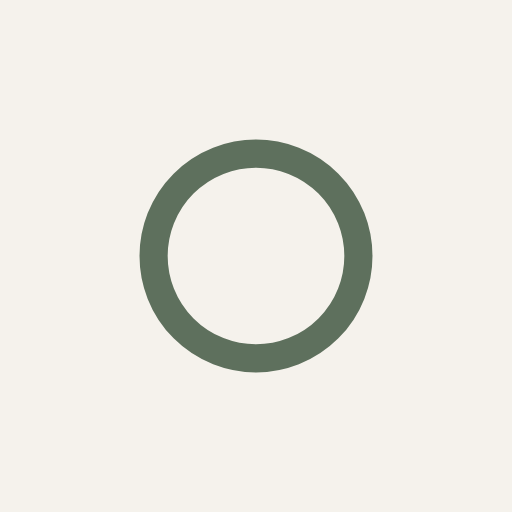
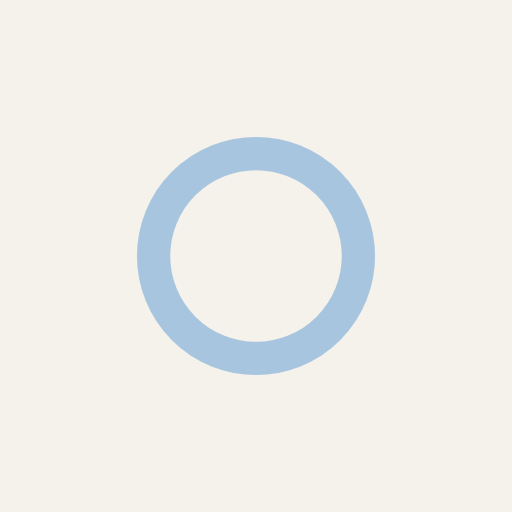
Change the accent to a soft pastel blue
The primary button, selected mood and focus rings use a pastel blue with
dark slate text (about 7.6:1 contrast), in light and dark mode. Icons and
favicon are regenerated as a blue ring.

Claude-Session: https://claude.ai/code/session_017iq3FQPpE2YjY6YyC7k5ra

Changed region(s): [[0.25, 0.25, 0.75, 0.75]]

diff --git a/src/styles.css b/src/styles.css
@@ -5,10 +5,10 @@
   --faint: #a59e94;
   --line: #e3ded5;
   --field: #faf8f4;
-  --accent: #5e705d;
-  --accent-text: #f7f5f0;
-  --accent-soft: #e4e8e1;
-  --focus: #8a9c87;
+  --accent: #a8c5e0;
+  --accent-text: #23303c;
+  --accent-soft: #d9e5f0;
+  --focus: #7fa6cb;
 
   --font: system-ui, -apple-system, 'Segoe UI', Roboto, 'Helvetica Neue', Arial, sans-serif;
   --size: 17px;
@@ -27,10 +27,10 @@
     --faint: #7c766d;
     --line: #3d3a36;
     --field: #312f2b;
-    --accent: #9aac96;
-    --accent-text: #22211e;
-    --accent-soft: #3a4038;
-    --focus: #9aac96;
+    --accent: #a9c3dc;
+    --accent-text: #20262d;
+    --accent-soft: #3a4552;
+    --focus: #a9c3dc;
     color-scheme: dark;
   }
 }
